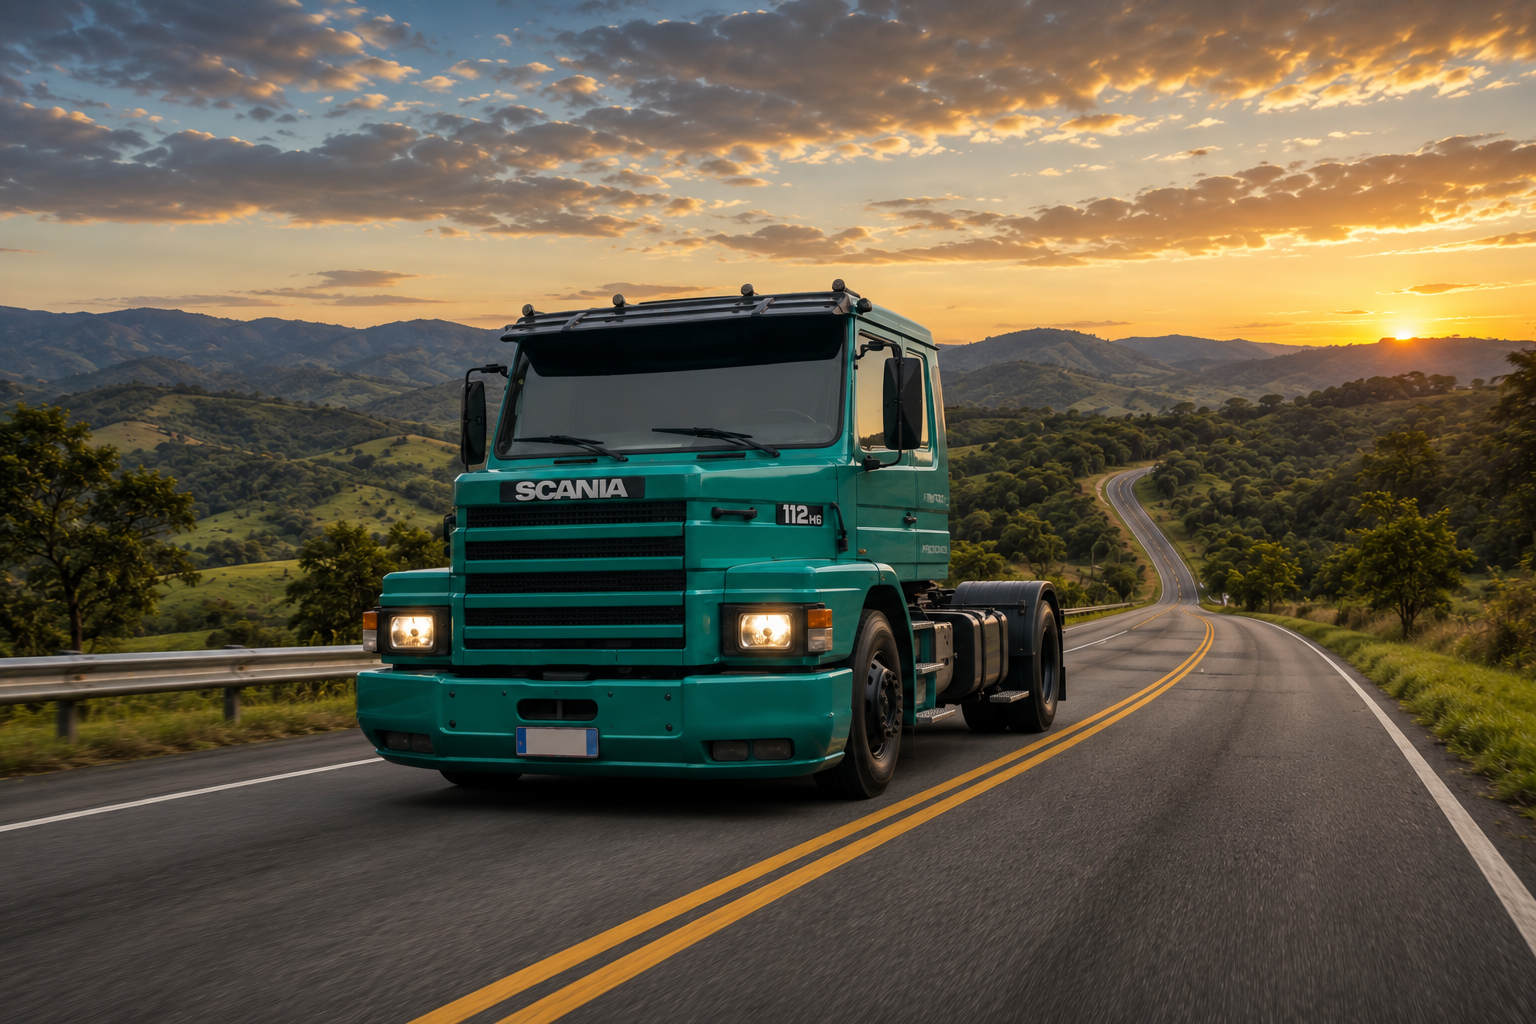
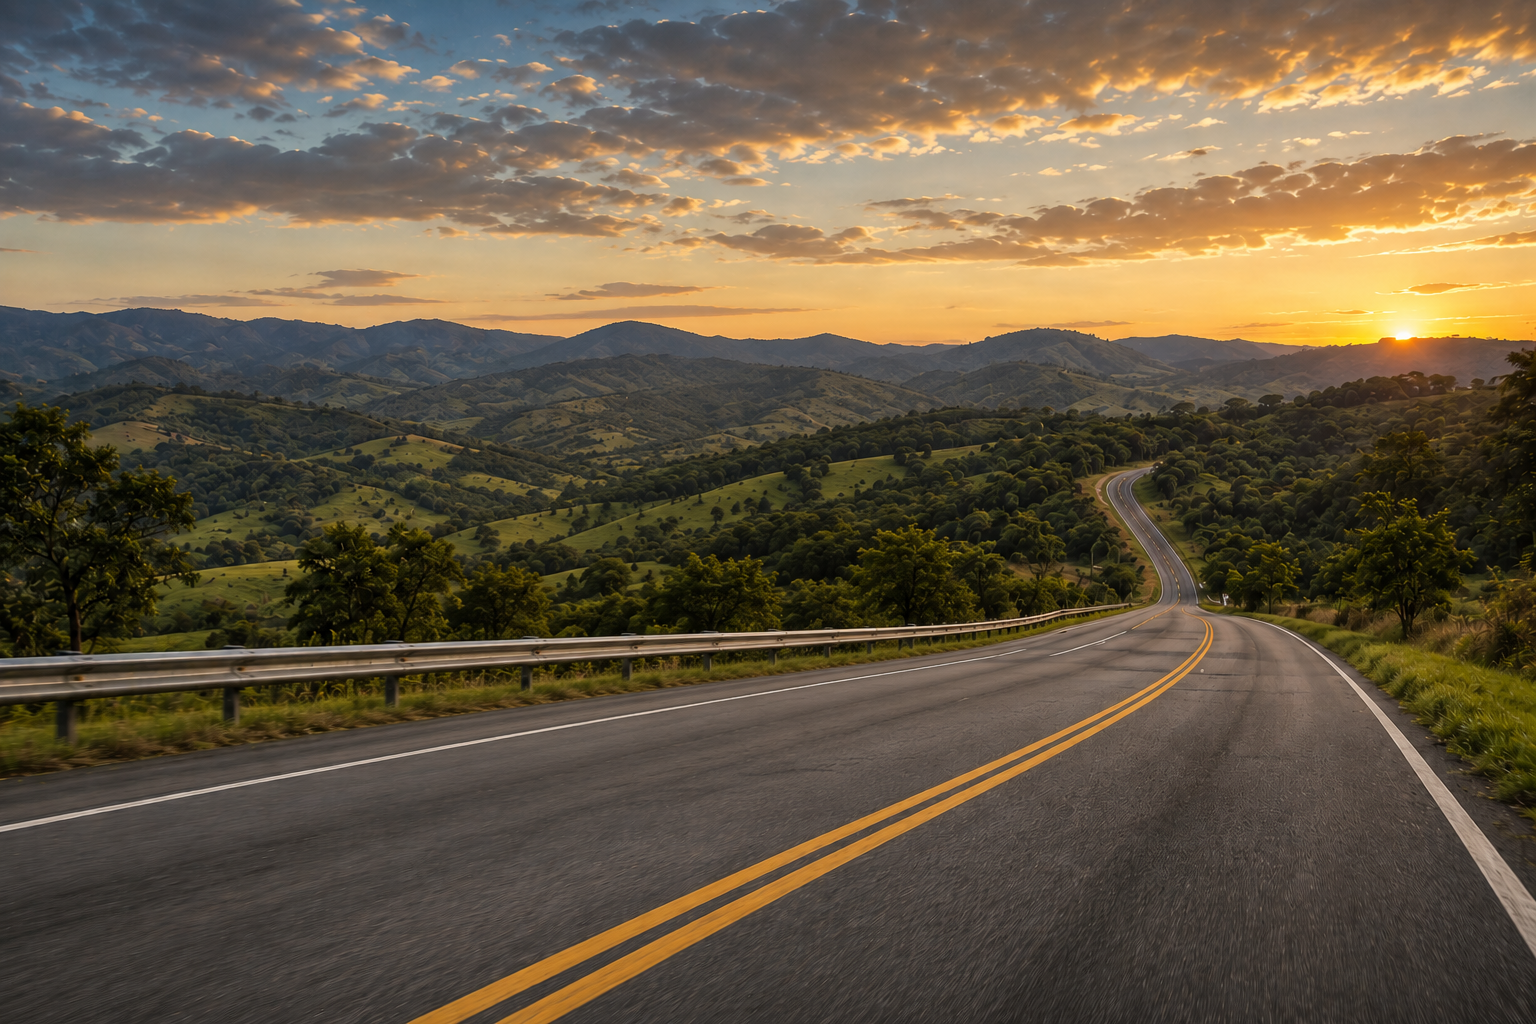
002(Pagina_Home)

diff --git a/public/assets/css/main_styles.css b/public/assets/css/main_styles.css
@@ -10,7 +10,29 @@ body {
     background-position: center;
 }
 
-#barra_inferior {
+#central_content {
+    max-height: 50vh;
+}
+
+#truck {
+    position: absolute;
+    width: 50%;
+    top: 30%;
+    left: 25%;
+    transform: translate(-50%, -50%);
+    z-index: -1;
+}
+
+#truck_driver {
+    position: absolute;
+    width: 100px;
+    top: 50%;
+    left: 55%;
+    transform: translate(-50%, -50%);
+    z-index: -1;
+}
+
+#bottom_bar {
     display: flex;
     gap: 3rem;
 }
@@ -20,7 +42,19 @@ body {
         background-size: 200vw 100vh;
     }
 
-    #barra_inferior {
+    #truck {
+        top: 45%;
+        left: 5%;
+        width: 90%;
+    }
+
+    #truck_driver {
+        top: 50%;
+        left: 60%;
+        width: 50px;
+    }
+
+    #bottom_bar {
         display: grid;
         gap: 0rem;
     }

diff --git a/resources/views/home.blade.php b/resources/views/home.blade.php
@@ -1,7 +1,45 @@
-@extends('layouts.main_layout')
-
-@section('content')
-    <div class="container">
-        <h1 class="text-center fw-bold">Página Home</h1>
+<x-main_layout :pageTitle="'Home'">
+    <h1 class="text-center fw-bold">Seja BEM-VINDO!</h1>
+    <div class="row text-white">
+        <p id="central_content" class="col overflow-auto">Lorem ipsum dolor sit amet consectetur adipisicing elit. Quidem dolorem et exercitationem asperiores adipisci aliquam magni commodi nostrum. Sit atque omnis quas dolorem earum autem rem dignissimos quisquam, est iusto.
+        Excepturi ex provident amet repellendus ea blanditiis quos ipsa quidem tempore, dicta tenetur, fuga esse laborum neque sunt numquam quaerat enim. Molestias perspiciatis, consectetur laudantium nulla odio voluptatibus sapiente modi?
+        Culpa modi possimus, sapiente accusantium pariatur ea ullam eos fuga corporis sint ipsam est atque et cupiditate maxime quos aut at adipisci esse tempora nesciunt nam rem cumque ipsum. Doloremque.
+        Adipisci totam at ad rerum in excepturi! Veniam commodi pariatur error autem, officiis culpa doloribus et nobis inventore labore repellat praesentium facere asperiores, vel soluta. Provident nemo ipsam earum laborum!
+        Quasi, praesentium earum! Quam, iusto quo! Magnam culpa officiis earum modi cupiditate, doloremque hic id reprehenderit debitis velit fugit quas beatae odio enim iusto possimus error maxime illo iure. Nostrum.
+        Ea sint totam magni ducimus deserunt corporis, optio laborum obcaecati architecto nulla itaque placeat. Et quibusdam amet aspernatur saepe molestias accusamus aliquam tempora numquam, eos nihil optio voluptatum quam tenetur!
+        Nisi sed quam qui explicabo nobis sapiente odio amet animi, harum fugit laudantium aliquid recusandae minima ipsam enim! Iste consectetur eius deserunt magnam, quibusdam hic. Perferendis nesciunt aliquid distinctio obcaecati?
+        In, voluptates? Voluptas, nulla illum temporibus laborum explicabo doloribus repudiandae minima ratione esse dolore voluptate adipisci ut deserunt, officia veritatis possimus? Eos numquam nulla asperiores sit adipisci iusto vero deserunt.
+        Atque ab quas minima, animi sed a eius necessitatibus quis molestiae tenetur obcaecati distinctio tempora pariatur numquam consequatur omnis id dolore mollitia dolorem reprehenderit magni cum corrupti ut. Beatae, animi.
+        Numquam similique porro commodi nihil quia suscipit beatae optio consequatur? Amet iure deleniti, hic recusandae vero, natus eligendi cupiditate fugiat voluptas, distinctio debitis ad asperiores laudantium unde perspiciatis officiis ab?
+        Illo veniam, optio nisi accusantium officiis repellendus quasi cupiditate eos reprehenderit at reiciendis, quis voluptas animi porro repellat beatae, excepturi itaque perspiciatis eum. Doloribus nemo, placeat beatae repellendus ut quidem.
+        Doloremque ullam est quas autem rerum provident ipsum sed a voluptatum ab eius sint quidem voluptatibus voluptates perspiciatis non, eveniet nihil praesentium accusamus quibusdam sit ut maxime? Similique, perferendis cum!
+        Et corrupti repellat, sed eos laborum magni facere commodi iure saepe architecto quae velit consequuntur quasi nemo corporis hic tempore quia reprehenderit ad? Quidem possimus, cupiditate sit provident fuga aliquam.
+        Quia sunt quasi soluta, saepe deleniti accusamus! Commodi harum exercitationem quas incidunt eum suscipit unde iure accusantium, mollitia repudiandae. Incidunt perferendis corrupti ab neque quis ex minus, beatae praesentium aliquid.
+        Facere beatae esse consequuntur fuga fugit facilis, quasi maiores debitis consectetur libero commodi alias vitae assumenda veritatis doloremque! Asperiores ipsa fugit est repellat dolore eligendi reiciendis amet cupiditate harum officia.
+        Vitae ullam eligendi praesentium pariatur ipsam molestiae non eius quae nam adipisci voluptatibus enim porro debitis, cum aliquid natus accusamus quod unde ad, deleniti fugit modi ex expedita? Voluptates, dolorum!
+        Corporis at alias ad amet magnam tempora molestiae a quisquam veniam, officia incidunt accusantium quidem! Autem aliquid ipsa cupiditate fugiat voluptate, dicta rerum sunt nam assumenda enim doloribus porro laborum.
+        Exercitationem provident, consectetur quae at corrupti iusto consequuntur laudantium tempore harum veniam sapiente nisi impedit? Quibusdam nesciunt animi, ut ratione ipsa voluptatibus delectus repudiandae, eveniet, rerum cum temporibus repellat mollitia!
+        Ratione omnis labore sapiente deserunt quam culpa repellat ut cupiditate eius, earum quia fugit aperiam non eveniet eum id inventore perspiciatis magnam pariatur! Labore aliquid consequuntur dolorem voluptas eveniet assumenda.
+        Nemo dolor labore quae sunt magnam voluptate, at voluptatibus incidunt molestias tenetur, velit aspernatur accusamus dolorem nostrum exercitationem quidem! Tempora nulla ea provident rem sit, ipsa animi hic minus? Fugiat.</p>
+        <p id="central_content" class="col overflow-auto">Lorem ipsum dolor sit amet consectetur adipisicing elit. Quidem dolorem et exercitationem asperiores adipisci aliquam magni commodi nostrum. Sit atque omnis quas dolorem earum autem rem dignissimos quisquam, est iusto.
+        Excepturi ex provident amet repellendus ea blanditiis quos ipsa quidem tempore, dicta tenetur, fuga esse laborum neque sunt numquam quaerat enim. Molestias perspiciatis, consectetur laudantium nulla odio voluptatibus sapiente modi?
+        Culpa modi possimus, sapiente accusantium pariatur ea ullam eos fuga corporis sint ipsam est atque et cupiditate maxime quos aut at adipisci esse tempora nesciunt nam rem cumque ipsum. Doloremque.
+        Adipisci totam at ad rerum in excepturi! Veniam commodi pariatur error autem, officiis culpa doloribus et nobis inventore labore repellat praesentium facere asperiores, vel soluta. Provident nemo ipsam earum laborum!
+        Quasi, praesentium earum! Quam, iusto quo! Magnam culpa officiis earum modi cupiditate, doloremque hic id reprehenderit debitis velit fugit quas beatae odio enim iusto possimus error maxime illo iure. Nostrum.
+        Ea sint totam magni ducimus deserunt corporis, optio laborum obcaecati architecto nulla itaque placeat. Et quibusdam amet aspernatur saepe molestias accusamus aliquam tempora numquam, eos nihil optio voluptatum quam tenetur!
+        Nisi sed quam qui explicabo nobis sapiente odio amet animi, harum fugit laudantium aliquid recusandae minima ipsam enim! Iste consectetur eius deserunt magnam, quibusdam hic. Perferendis nesciunt aliquid distinctio obcaecati?
+        In, voluptates? Voluptas, nulla illum temporibus laborum explicabo doloribus repudiandae minima ratione esse dolore voluptate adipisci ut deserunt, officia veritatis possimus? Eos numquam nulla asperiores sit adipisci iusto vero deserunt.
+        Atque ab quas minima, animi sed a eius necessitatibus quis molestiae tenetur obcaecati distinctio tempora pariatur numquam consequatur omnis id dolore mollitia dolorem reprehenderit magni cum corrupti ut. Beatae, animi.
+        Numquam similique porro commodi nihil quia suscipit beatae optio consequatur? Amet iure deleniti, hic recusandae vero, natus eligendi cupiditate fugiat voluptas, distinctio debitis ad asperiores laudantium unde perspiciatis officiis ab?
+        Illo veniam, optio nisi accusantium officiis repellendus quasi cupiditate eos reprehenderit at reiciendis, quis voluptas animi porro repellat beatae, excepturi itaque perspiciatis eum. Doloribus nemo, placeat beatae repellendus ut quidem.
+        Doloremque ullam est quas autem rerum provident ipsum sed a voluptatum ab eius sint quidem voluptatibus voluptates perspiciatis non, eveniet nihil praesentium accusamus quibusdam sit ut maxime? Similique, perferendis cum!
+        Et corrupti repellat, sed eos laborum magni facere commodi iure saepe architecto quae velit consequuntur quasi nemo corporis hic tempore quia reprehenderit ad? Quidem possimus, cupiditate sit provident fuga aliquam.
+        Quia sunt quasi soluta, saepe deleniti accusamus! Commodi harum exercitationem quas incidunt eum suscipit unde iure accusantium, mollitia repudiandae. Incidunt perferendis corrupti ab neque quis ex minus, beatae praesentium aliquid.
+        Facere beatae esse consequuntur fuga fugit facilis, quasi maiores debitis consectetur libero commodi alias vitae assumenda veritatis doloremque! Asperiores ipsa fugit est repellat dolore eligendi reiciendis amet cupiditate harum officia.
+        Vitae ullam eligendi praesentium pariatur ipsam molestiae non eius quae nam adipisci voluptatibus enim porro debitis, cum aliquid natus accusamus quod unde ad, deleniti fugit modi ex expedita? Voluptates, dolorum!
+        Corporis at alias ad amet magnam tempora molestiae a quisquam veniam, officia incidunt accusantium quidem! Autem aliquid ipsa cupiditate fugiat voluptate, dicta rerum sunt nam assumenda enim doloribus porro laborum.
+        Exercitationem provident, consectetur quae at corrupti iusto consequuntur laudantium tempore harum veniam sapiente nisi impedit? Quibusdam nesciunt animi, ut ratione ipsa voluptatibus delectus repudiandae, eveniet, rerum cum temporibus repellat mollitia!
+        Ratione omnis labore sapiente deserunt quam culpa repellat ut cupiditate eius, earum quia fugit aperiam non eveniet eum id inventore perspiciatis magnam pariatur! Labore aliquid consequuntur dolorem voluptas eveniet assumenda.
+        Nemo dolor labore quae sunt magnam voluptate, at voluptatibus incidunt molestias tenetur, velit aspernatur accusamus dolorem nostrum exercitationem quidem! Tempora nulla ea provident rem sit, ipsa animi hic minus? Fugiat.</p>
     </div>
-@endsection
+</x-main_layout>

diff --git a/resources/views/layouts/partials/footer.blade.php b/resources/views/layouts/partials/footer.blade.php
@@ -1,16 +1,28 @@
-<footer id="barra_inferior" class="justify-content-center flex-wrap border-top border-5 border-black bg-success text-center p-3 mt-auto">
-    <div class="d-grid">
-        <p>© Todos os direitos reservados: Maurício Stefanello Barbieri</p>
-        <p>2026 - {{ date('Y') }} | {{ env('APP_NAME') }}</p>
+<footer id="bottom_bar" class="justify-content-center flex-wrap border-top border-5 border-black bg-success text-center shadow-lg p-3 mt-auto">
+    <div class="d-grid align-self-center">
+        <p class="fw-bold">
+            © Todos os direitos reservados: Maurício Stefanello Barbieri
+            <br>
+            2026 - {{ date('Y') }} | {{ env('APP_NAME') }}
+        </p>
     </div>
 
     <div class="align-self-center">
-        <p>CNPJ: 00.000.000/0000-00</p>
+        <p>
+            <i class="bi bi-building"></i>
+            CNPJ: 00.000.000/0000-00
+        </p>
     </div>
 
     <div class="d-grid">
-        <label>Contatos:</label>
-        <p>Email: endereco@gmail.com</p>
-        <p>Whatsapp: (99) 99999-9999</p>
+        <label class="fw-bold">Contatos:</label>
+        <p>
+            <i class="bi bi-envelope-at"></i>
+            Email: endereco@gmail.com
+        </p>
+        <p>
+            <i class="bi bi-whatsapp"></i>
+            Whatsapp: (99) 99999-9999
+        </p>
     </div>
 </footer>

diff --git a/resources/views/layouts/partials/navbar.blade.php b/resources/views/layouts/partials/navbar.blade.php
@@ -1,8 +1,12 @@
-<nav class="navbar border-bottom border-5 border-black bg-success mb-5">
+<nav class="navbar border-bottom border-5 border-black bg-success shadow-lg">
     <div class="container-fluid">
         <div class="d-flex align-items-center gap-1">
-            <img src="{{ asset('assets/images/logo.png') }}" height="45">
-            <a href="{{ route('home') }}" class="navbar-brand"><span class="fs-4 fw-bold">{{ env('APP_NAME') }}:</span> {{ $page }}</a>
+            <img src="{{ asset('assets/images/icons/logo.png') }}" class="animate__animated animate__rollIn animate__infinite" height="45">
+            <a href="{{ route('home') }}" class="navbar-brand"><span class="fs-4 fw-bold">{{ env('APP_NAME') }}:</span> {{ $pageTitle }}</a>
+        </div>
+        <div class="d-flex gap-2 my-2">
+            <a href="#" class="btn btn-warning border-black shadow-sm">LOGIN</a>
+            <a href="#" class="btn btn-warning border-black shadow-sm">CADASTRAR</a>
         </div>
     </div>
 </nav>

diff --git a/resources/views/components/main_layout.blade.php b/resources/views/components/main_layout.blade.php
@@ -4,7 +4,7 @@
     <meta charset="UTF-8">
     <meta name="viewport" content="width=device-width, initial-scale=1.0">
     <meta http-equiv="X-UA-Compatible" content="ie=edge">
-    <title>{{ env('APP_NAME') }} - {{ $page }}</title>
+    <title>{{ env('APP_NAME') }} - {{ $pageTitle }}</title>
     <link rel="shortcut icon" href="{{ asset('favicon.ico') }}" type="image/x-icon">
 
     @include('layouts.partials.links')
@@ -19,8 +19,13 @@
 <body class="d-flex flex-column min-vh-100 fst-italic">
     @include('layouts.partials.navbar')
 
-    @yield('content')
+    <div id="central_content" class="container my-5 overflow-auto">
+        {{ $slot }}
+    </div>
 
     @include('layouts.partials.footer')
+
+    <img src="{{ asset('assets/images/truck.png') }}" id="truck" class="animate__animated animate__fadeInLeft">
+    <img src="{{ asset('assets/images/truck_driver.png') }}" id="truck_driver" class="animate__animated animate__backInRight">
 </body>
 </html>

diff --git a/app/View/Components/main_layout.php b/app/View/Components/main_layout.php
@@ -1,0 +1,29 @@
+<?php
+
+namespace App\View\Components;
+
+use Closure;
+use Illuminate\Contracts\View\View;
+use Illuminate\View\Component;
+
+class main_layout extends Component
+{
+
+    public $pageTitle;
+
+    /**
+     * Create a new component instance.
+     */
+    public function __construct(string $pageTitle)
+    {
+        $this->pageTitle = $pageTitle;
+    }
+
+    /**
+     * Get the view / contents that represent the component.
+     */
+    public function render(): View|Closure|string
+    {
+        return view('components.main_layout');
+    }
+}

diff --git a/resources/views/layouts/partials/links.blade.php b/resources/views/layouts/partials/links.blade.php
@@ -1,1 +1,4 @@
 <link href="https://cdn.jsdelivr.net/npm/bootstrap@5.3.8/dist/css/bootstrap.min.css" rel="stylesheet" integrity="sha384-sRIl4kxILFvY47J16cr9ZwB07vP4J8+LH7qKQnuqkuIAvNWLzeN8tE5YBujZqJLB" crossorigin="anonymous">
+<link rel="stylesheet" href="https://cdn.jsdelivr.net/npm/bootstrap-icons@1.13.1/font/bootstrap-icons.min.css">
+
+<link rel="stylesheet" href="https://cdnjs.cloudflare.com/ajax/libs/animate.css/4.1.1/animate.min.css"/>

diff --git a/app/Http/Controllers/MainController.php b/app/Http/Controllers/MainController.php
@@ -2,12 +2,11 @@
 
 namespace App\Http\Controllers;
 
-use Illuminate\Http\Request;
+use Illuminate\View\View;
 
 class MainController extends Controller
 {
-    public function home()
-    {
-        return view('home')->with('page', 'Home');
+    public function home(): View {
+        return view('home');
     }
 }
